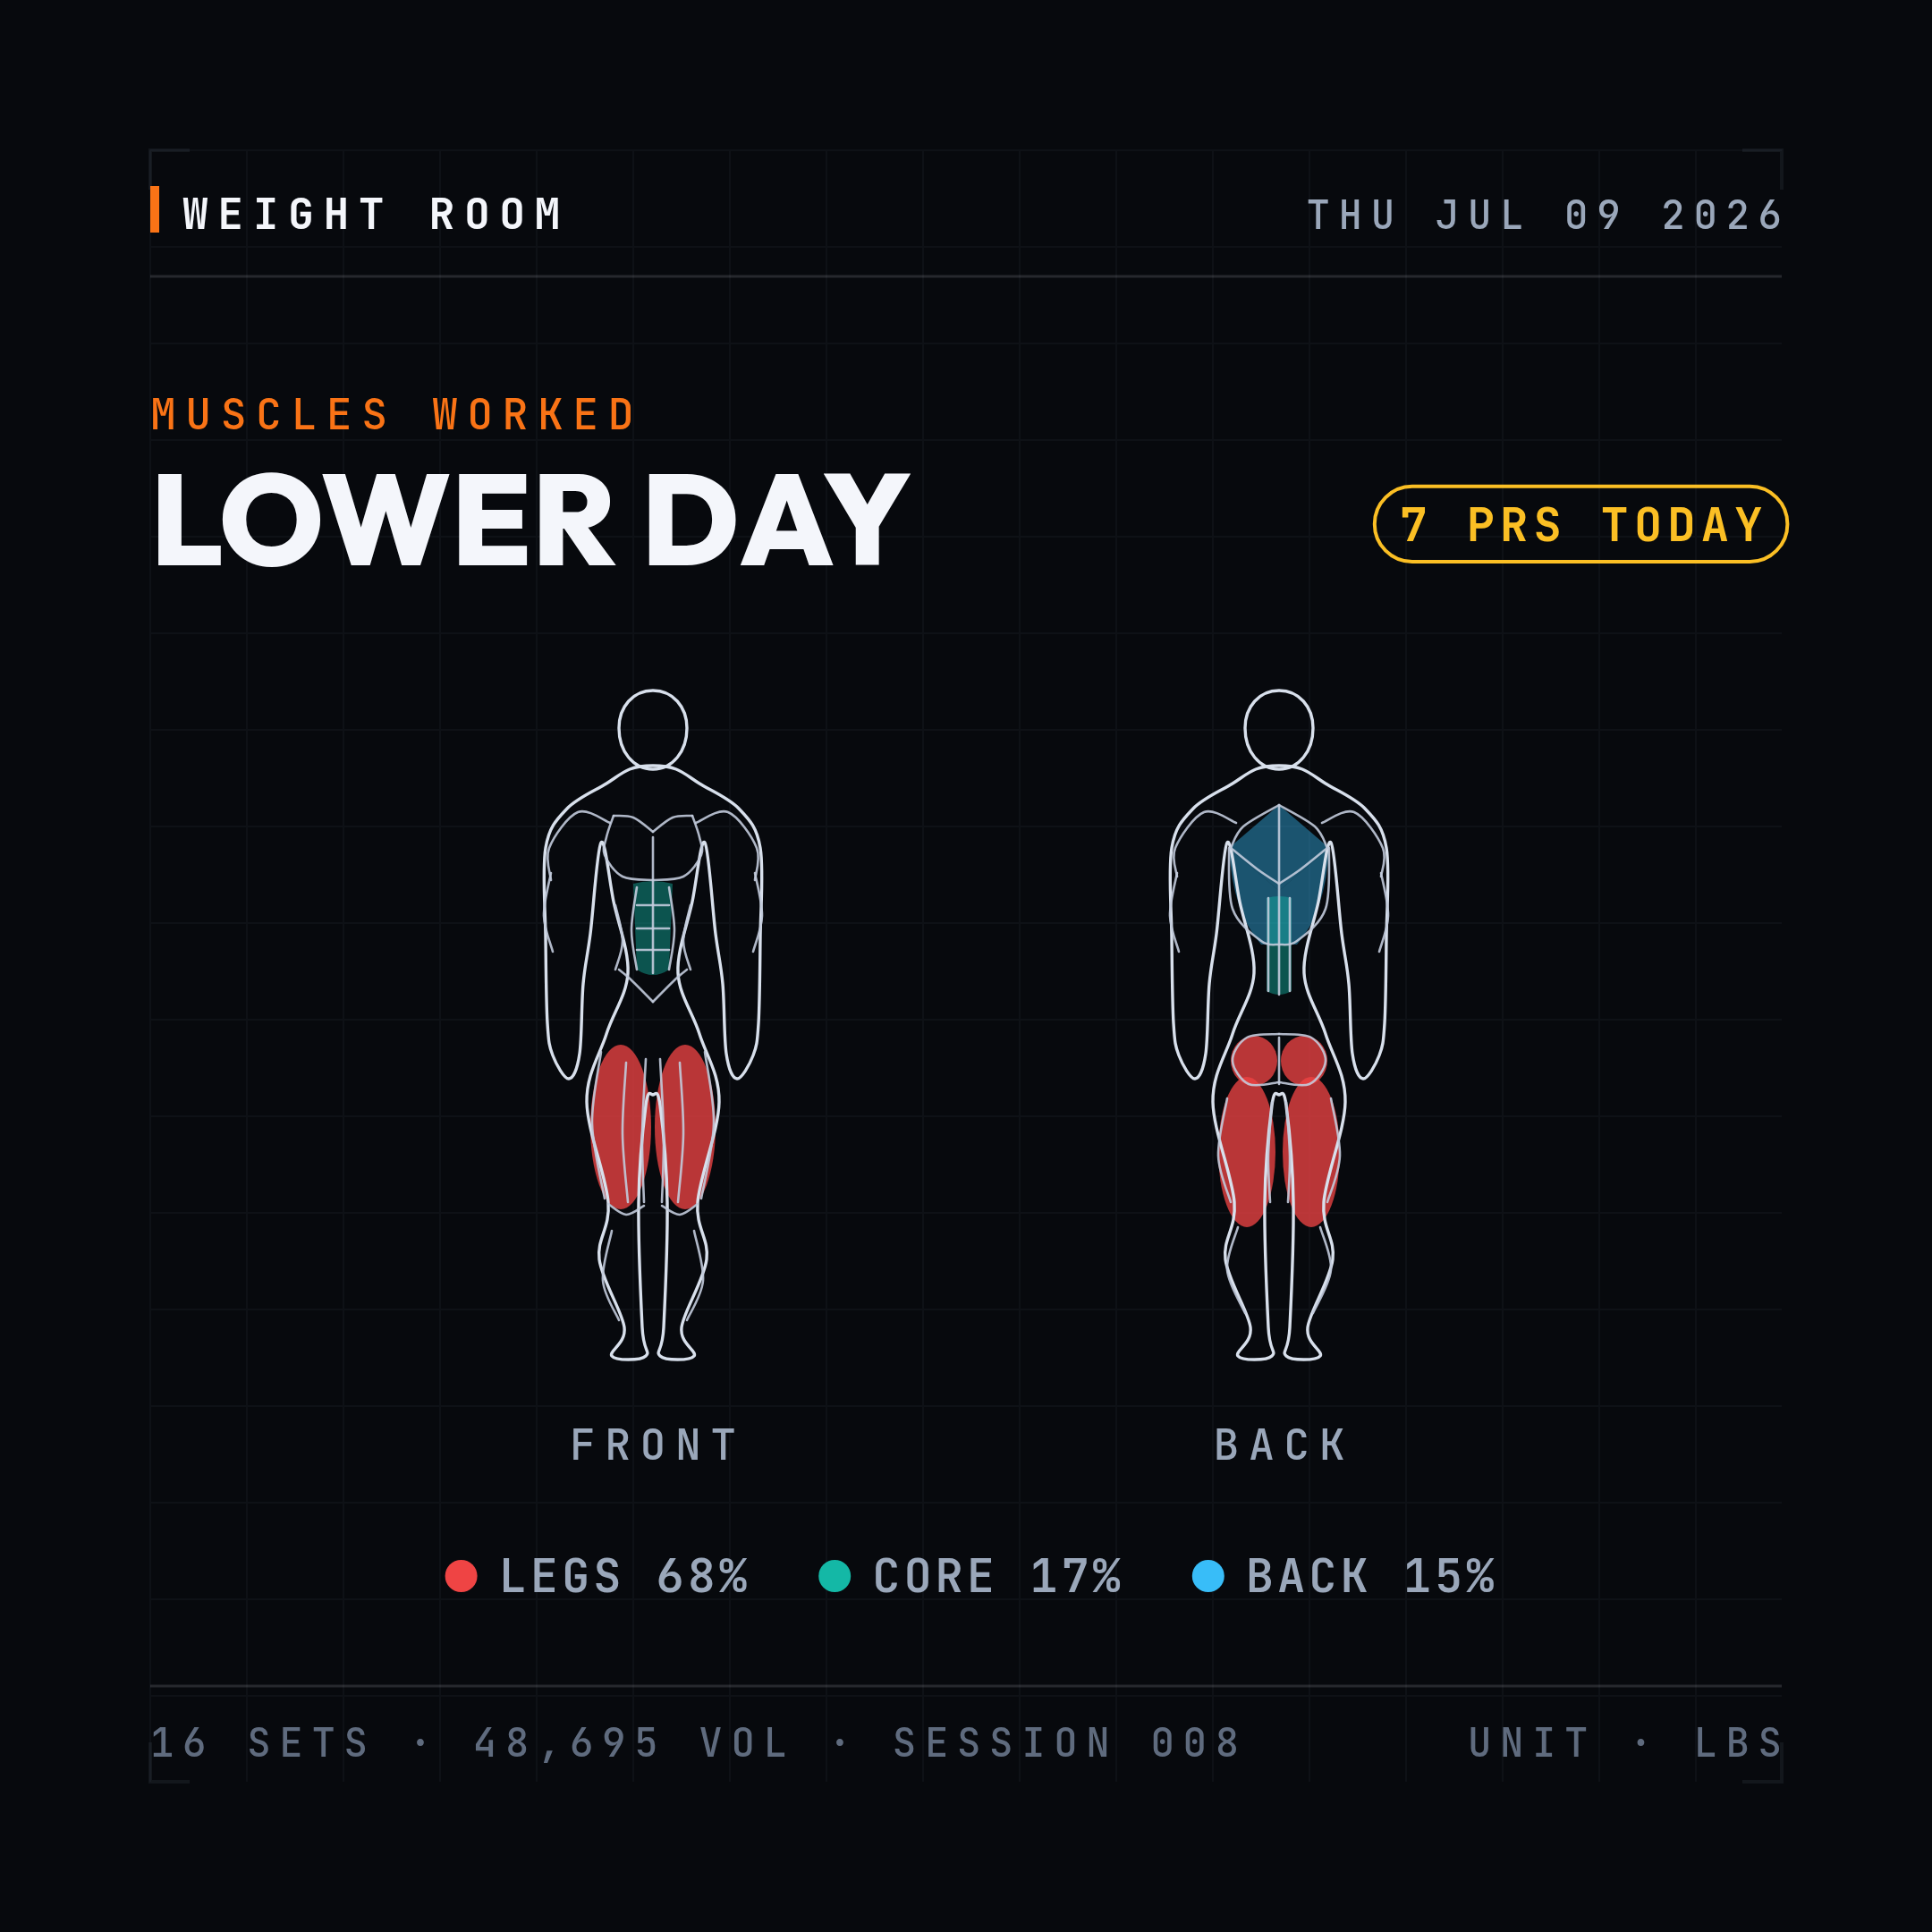
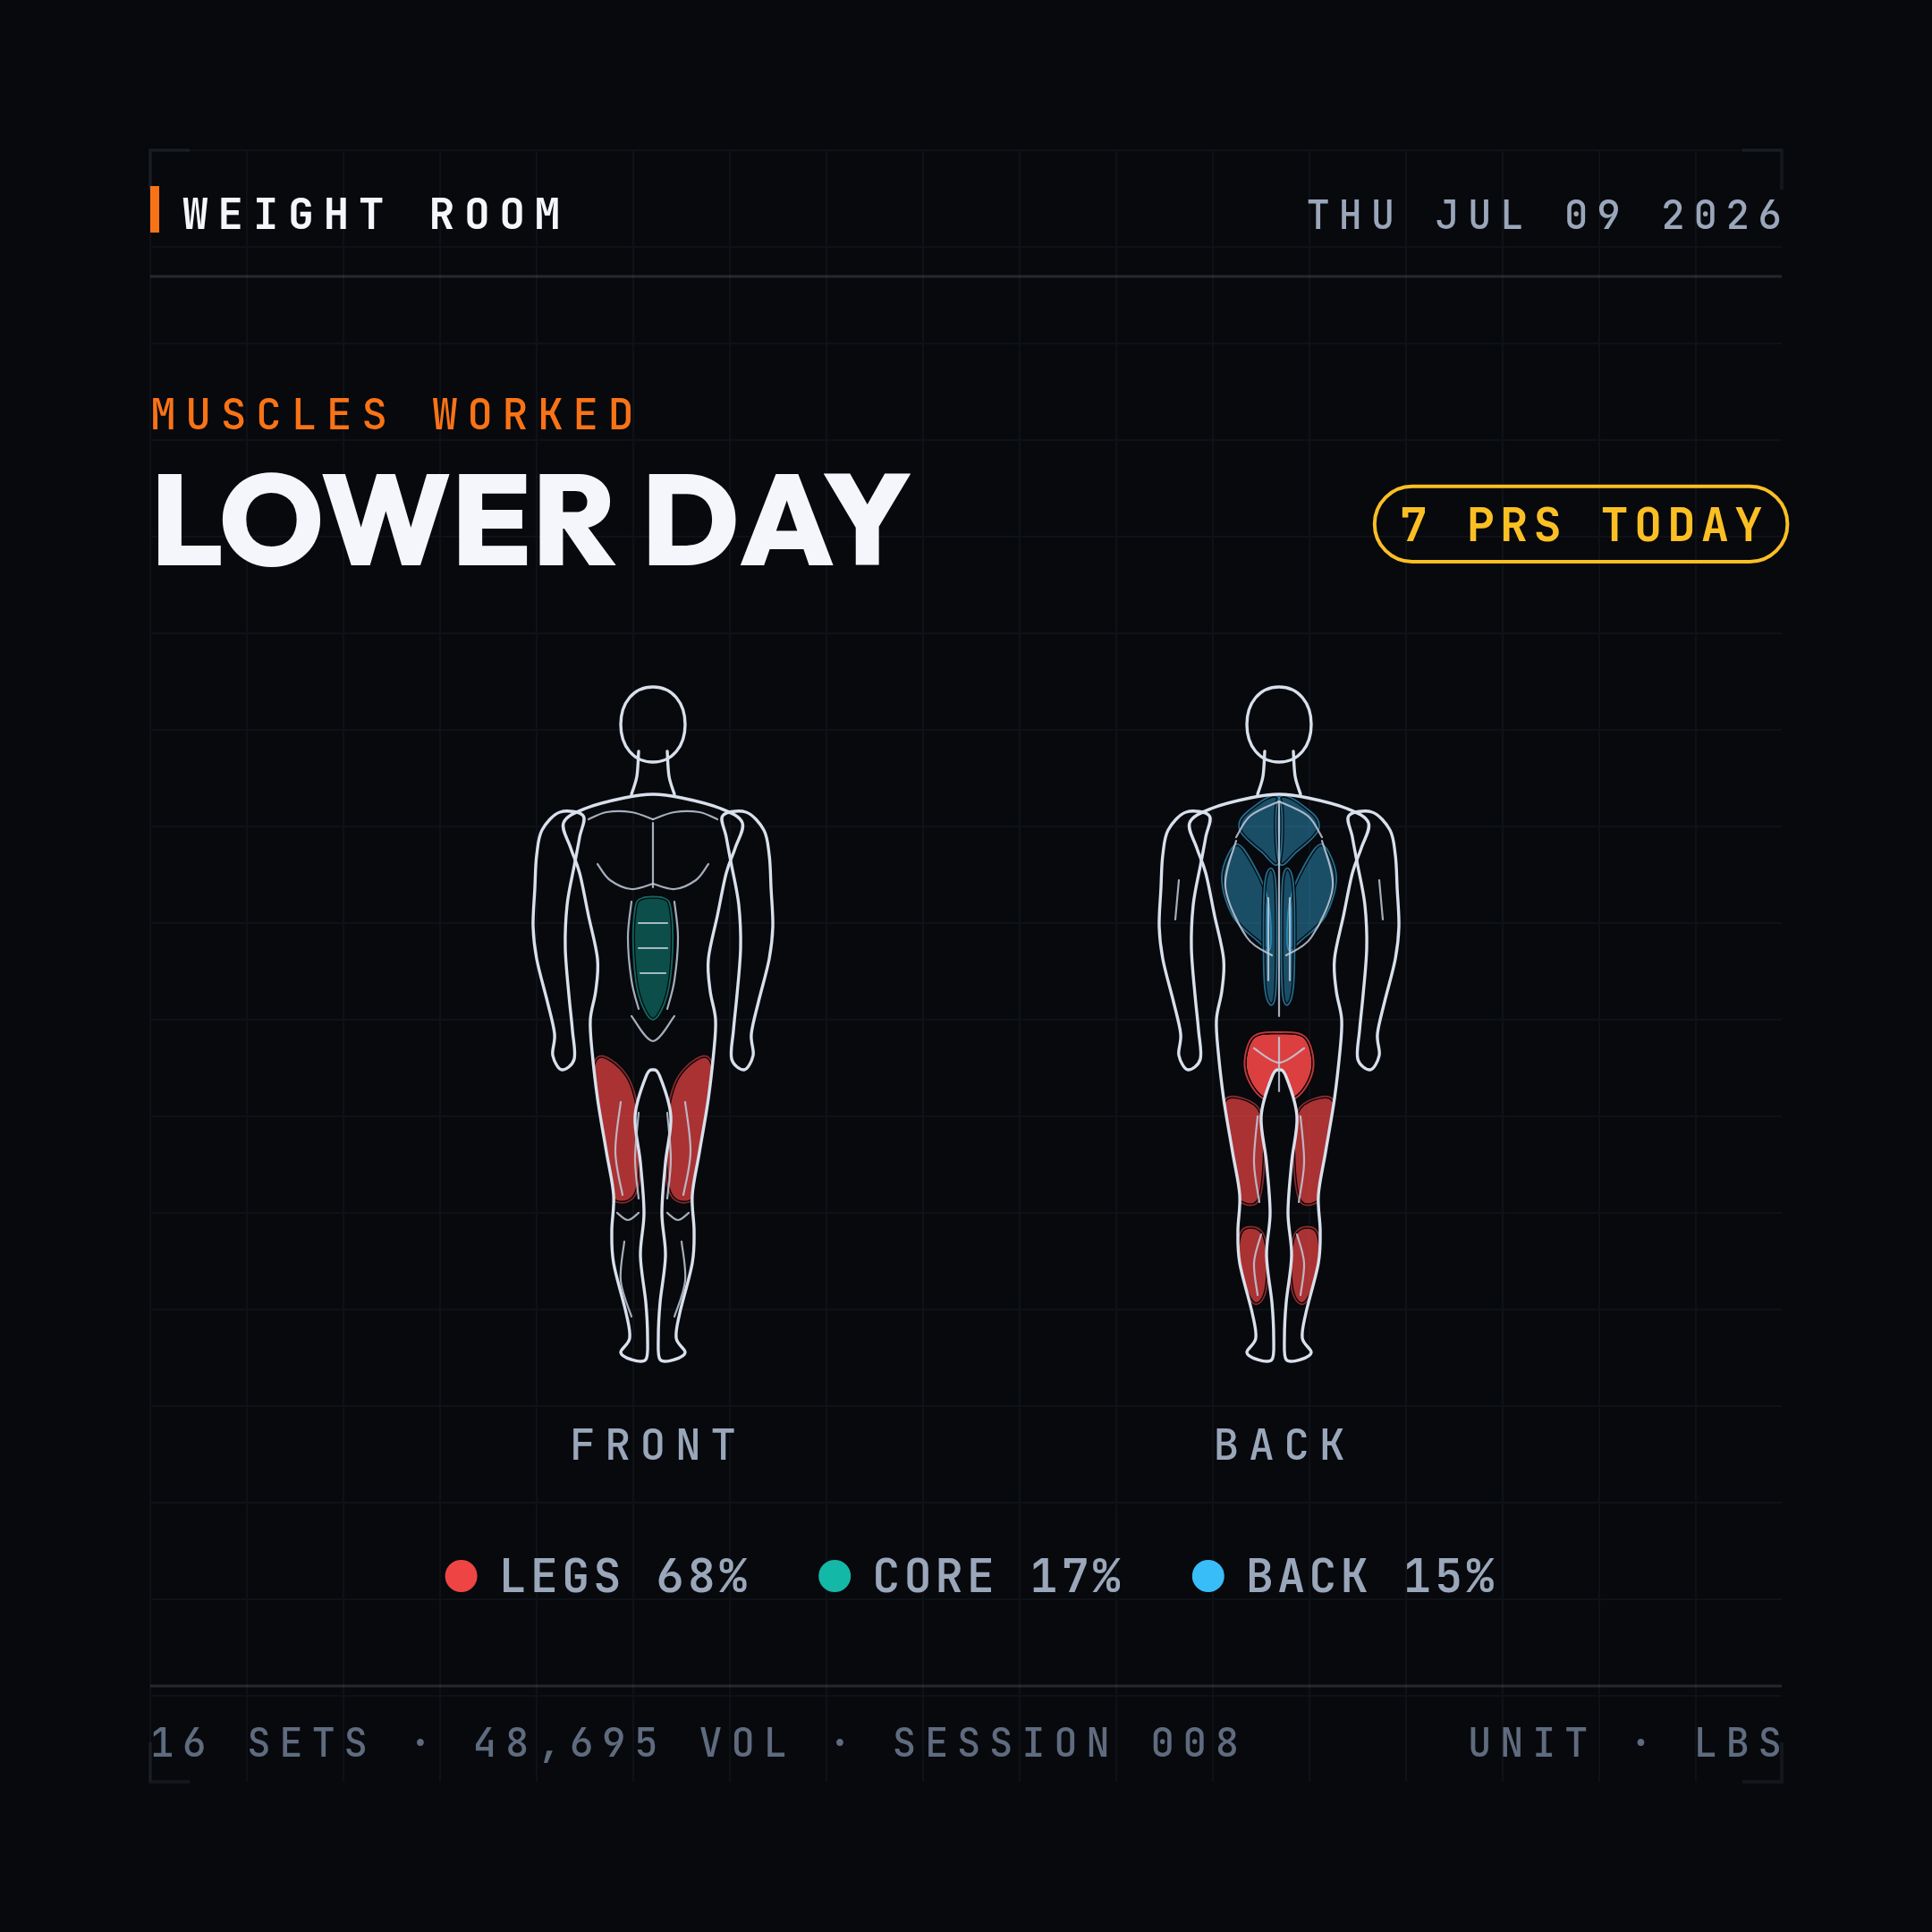
Redesign the anatomy figure from scratch
The restored body map used the original hand-drawn geometry — lumpy
silhouette, floating ellipse washes bleeding past the outline. New
figure authored fresh (iterated visually in a dev harness): proper
proportions, part-based composition (head, open-sided neck, torso+legs,
naturally hanging arms) so silhouettes stay clean; muscle washes are
closed regions clipped to the body with background-color knockout
strokes between them, so adjacent same-color muscles (trap/lat/erector)
read as distinct shapes; refined interior contour lines. drawFigure
renders the part model via Path2D with mirrored right-side regions.

Claude-Session: https://claude.ai/code/session_017FFDWztrMnJ799jVbag4ee

Changed region(s): [[0.5894, 0.3412, 0.7444, 0.7134], [0.2792, 0.3722, 0.4032, 0.7134]]

diff --git a/src/lib/share/bodyMap.js b/src/lib/share/bodyMap.js
@@ -1,20 +1,21 @@
-// Thin line-art front/back anatomy for the muscle-map share card.
+// Refined line-art front/back anatomy for the muscle-map share card.
 //
-// The body is drawn as light contour lines (outline + muscle delineations)
-// with no solid fill; muscle groups trained that day get a translucent color
-// wash painted behind the line art. Geometry is point data + a Catmull-Rom
-// smoother producing SVG path strings, rendered onto the card canvas via
-// Path2D (Safari-safe). Coordinates use a 200x400 viewBox, centered x=100.
+// Authored as mirrored point data smoothed with Catmull-Rom → SVG path
+// strings, rendered via Path2D (Safari-safe). The body is composed of parts
+// (head, open-sided neck, torso+legs, hanging arms) so silhouettes stay
+// clean; muscle-group washes are separate closed regions CLIPPED to the body
+// with knockout strokes between them, so adjacent same-color muscles (trap /
+// lat / erector) read as distinct shapes. Coordinates use a 200×400 viewBox,
+// centered x=100; right-side regions are mirrored at draw time.
 
 import { MUSCLE_COLORS } from '../../data/seed.js'
 
 export const VIEW_W = 200
 export const VIEW_H = 400
-export const VIEWBOX = `0 0 ${VIEW_W} ${VIEW_H}`
 
 export const LINE_STROKE = '#c2cbdb'
 export const OUTLINE_STROKE = '#d8e0ec'
-export const LINE_WIDTH = 1.3
+export const LINE_WIDTH = 1.1
 export const OUTLINE_WIDTH = 1.7
 
 // ---- smoothing + mirroring ----
@@ -40,116 +41,109 @@ function bez(pts, closed) {
   return d + (closed ? 'Z' : '')
 }
 const mir = ([x, y]) => [200 - x, y]
+const mirPts = (pts) => pts.map(mir)
 
-// ---- body outline + head ----
-const OUTLINE_PTS = [
-  [100, 56], [113, 58], [126, 66], [148, 80], [160, 102], [160, 152], [159, 200],
-  [156, 218], [147, 231], [141, 217], [139, 178], [135, 150], [129, 99], [122, 132],
-  [114, 172], [126, 206], [137, 244], [125, 300], [130, 332], [116, 370], [123, 386],
-  [104, 386], [106, 370], [108, 300], [104, 246], [100, 240],
+// ---- body parts ----
+export const HEAD =
+  'M100 12 C111 12 118 21 118 33 C118 45 111 54 100 54 C89 54 82 45 82 33 C82 21 89 12 100 12 Z'
+// Open-sided neck: two strokes, no seam across chin or chest.
+export const NECK_L = bez([[92, 48], [91, 62], [88, 72]], false)
+export const NECK_R = bez([[108, 48], [109, 62], [112, 72]], false)
+
+const TORSO_R = [
+  [100, 72], [116, 74], [138, 80], [150, 88], [146, 102], [141, 116],
+  [136, 140], [131, 164], [132, 182], [135, 198], [134, 216], [131, 242],
+  [126, 272], [122, 296], [123, 316], [122, 334], [115, 362], [113, 376],
+  [118, 384], [112, 388], [104, 388], [103, 376], [104, 356], [107, 330],
+  [105, 306], [107, 278], [110, 252], [104, 230], [100, 226],
 ]
-export const BODY_OUTLINE = bez([...OUTLINE_PTS, ...OUTLINE_PTS.slice(1, -1).reverse().map(mir)], true)
-export const HEAD_PATH =
-  'M100 14 C111 14 119 23 119 35 C119 48 111 58 100 58 C89 58 81 48 81 35 C81 23 89 14 100 14 Z'
+export const TORSO = bez([...TORSO_R, ...mirPts(TORSO_R.slice(1, -1)).reverse()], true)
 
-// ---- muscle contour lines (center drawn as-is; side mirrored to both sides) ----
-const FRONT_LINES = {
-  center: [[[100, 96], [100, 122], [100, 172]]],
-  side: [
-    [[100, 93], [111, 85], [122, 84]], // clavicle
-    [[122, 84], [126, 96], [127, 106], [117, 118], [100, 120]], // pectoral
-    [[124, 88], [142, 82], [158, 102], [157, 120]], // deltoid cap
-    [[157, 116], [161, 140], [156, 160]], // biceps
-    [[109, 124], [112, 148], [109, 170]], // rectus border
-    [[100, 134], [109, 134]],
-    [[100, 147], [109, 147]],
-    [[100, 159], [109, 159]], // ab rows
-    [[100, 188], [113, 175], [119, 170]], // lower-ab V
-    [[121, 134], [117, 154], [121, 170]], // oblique
-    [[129, 216], [134, 256], [127, 298]], // quad outer
-    [[115, 222], [117, 262], [114, 300]], // quad center
-    [[104, 220], [106, 262], [105, 300]], // quad inner
-    [[105, 302], [115, 307], [125, 301]], // knee
-    [[123, 316], [128, 344], [119, 366]], // shin
-  ],
-}
-const BACK_LINES = {
-  center: [
-    [[100, 78], [100, 132], [100, 184]], // spine
-    [[100, 208], [100, 234]], // glute cleft
-  ],
-  side: [
-    [[100, 78], [120, 90], [127, 102]], // trap upper
-    [[127, 102], [112, 114], [100, 122]], // trap lower
-    [[128, 102], [126, 136], [110, 154], [100, 156]], // lat
-    [[124, 88], [142, 82], [158, 102], [157, 118]], // rear delt
-    [[157, 116], [161, 140], [156, 160]], // triceps
-    [[106, 130], [106, 182]], // erector
-    [[100, 206], [118, 208], [126, 221], [117, 234], [100, 233]], // glute
-    [[129, 242], [134, 274], [127, 300]], // hamstring outer
-    [[104, 244], [106, 274], [105, 300]], // hamstring inner
-    [[123, 314], [129, 338], [119, 362]], // calf
-  ],
-}
-function linePaths(set) {
-  return [...set.center, ...set.side, ...set.side.map((a) => a.map(mir))].map((pts) =>
-    bez(pts, false),
-  )
-}
-export const FRONT_LINE_PATHS = linePaths(FRONT_LINES)
-export const BACK_LINE_PATHS = linePaths(BACK_LINES)
-
-// ---- muscle highlight zones (filled behind the lines, only when trained) ----
-const delts = [
-  { t: 'ellipse', cx: 146, cy: 100, rx: 14, ry: 14 },
-  { t: 'ellipse', cx: 54, cy: 100, rx: 14, ry: 14 },
+const ARM_R_PTS = [
+  [139, 84], [152, 82], [162, 92], [165, 106], [166, 124], [167, 146],
+  [165, 164], [159, 188], [155, 206], [156, 218], [151, 226], [144, 220],
+  [145, 204], [147, 184], [149, 158], [148, 134], [144, 112], [141, 96],
 ]
-const arms = [
-  { t: 'ellipse', cx: 158, cy: 136, rx: 9, ry: 24, rot: -4 },
-  { t: 'ellipse', cx: 42, cy: 136, rx: 9, ry: 24, rot: 4 },
+export const ARM_R = bez(ARM_R_PTS, true)
+export const ARM_L = bez(mirPts(ARM_R_PTS), true)
+
+// ---- interior contour lines ----
+const mirLine = (pts) => bez(mirPts(pts), false)
+const clavicle = [[100, 86], [112, 82], [126, 82], [136, 86]]
+const pecUnder = [[100, 122], [112, 125], [124, 120], [131, 111]]
+const rectusBorder = [[112, 132], [114, 152], [112, 176], [108, 192]]
+const quadSeamOuter = [[118, 244], [121, 272], [117, 296]]
+const quadSeamInner = [[108, 250], [110, 276], [108, 298]]
+const knee = [[108, 306], [114, 310], [120, 306]]
+const shin = [[116, 322], [118, 344], [112, 364]]
+
+export const FRONT_LINES = [
+  bez(clavicle, false), mirLine(clavicle),
+  bez([[100, 88], [100, 124]], false),
+  bez(pecUnder, false), mirLine(pecUnder),
+  bez(rectusBorder, false), mirLine(rectusBorder),
+  bez([[92, 144], [108, 144]], false),
+  bez([[92, 158], [108, 158]], false),
+  bez([[93, 172], [107, 172]], false),
+  bez([[88, 196], [100, 210], [112, 196]], false),
+  bez(quadSeamOuter, false), mirLine(quadSeamOuter),
+  bez(quadSeamInner, false), mirLine(quadSeamInner),
+  bez(knee, false), mirLine(knee),
+  bez(shin, false), mirLine(shin),
 ]
 
+const trapLine = [[100, 76], [116, 84], [124, 96]]
+const latLine = [[124, 98], [130, 124], [118, 152], [104, 162]]
+const erectorSeam = [[106, 130], [106, 176]]
+const hamSeam = [[112, 252], [114, 278], [111, 300]]
+const calfHead = [[110, 318], [114, 334], [112, 352]]
+const triSeam = [[156, 120], [158, 142]]
+
+export const BACK_LINES = [
+  bez(trapLine, false), mirLine(trapLine),
+  bez([[100, 76], [100, 196]], false),
+  bez(latLine, false), mirLine(latLine),
+  bez(erectorSeam, false), mirLine(erectorSeam),
+  bez([[100, 208], [100, 238]], false),
+  bez([[86, 214], [100, 222], [114, 214]], false),
+  bez(hamSeam, false), mirLine(hamSeam),
+  bez(calfHead, false), mirLine(calfHead),
+  bez(triSeam, false), mirLine(triSeam),
+]
+
+// ---- muscle-group wash regions (right side; mirrored at draw time) ----
+const REGION_PATHS = {
+  deltF: bez([[139, 84], [152, 82], [162, 92], [165, 104], [158, 112], [146, 108], [140, 96]], true),
+  pec: bez([[102, 92], [124, 90], [135, 99], [132, 112], [120, 120], [104, 118]], true),
+  biceps: bez([[147, 112], [158, 114], [164, 128], [161, 146], [151, 148], [146, 130]], true),
+  abs: bez([[94, 130], [106, 130], [110, 136], [111, 158], [108, 184], [100, 198], [92, 184], [89, 158], [90, 136]], true),
+  quad: bez([[133, 222], [136, 252], [130, 288], [120, 300], [109, 294], [107, 262], [112, 234], [124, 220]], true),
+  trap: bez([[100, 74], [118, 82], [122, 92], [110, 104], [100, 110]], true),
+  lat: bez([[124, 100], [132, 118], [126, 140], [112, 154], [105, 158], [106, 132], [114, 112]], true),
+  tri: bez([[148, 110], [160, 112], [165, 128], [162, 146], [152, 148], [146, 128]], true),
+  erector: bez([[102, 120], [108, 122], [108, 180], [102, 184]], true),
+  glute: bez([[85, 208], [100, 205], [115, 208], [119, 226], [109, 242], [91, 242], [81, 226]], true),
+  ham: bez([[131, 244], [133, 270], [126, 296], [112, 300], [108, 274], [110, 250], [120, 242]], true),
+  calfB: bez([[121, 316], [123, 336], [115, 356], [108, 352], [106, 332], [110, 316]], true),
+}
+
+// Entries: { group, d, noMirror? } — noMirror for center-line regions.
 export const FRONT_REGIONS = [
-  { group: 'Shoulders', shapes: delts },
-  {
-    group: 'Chest',
-    shapes: [
-      { t: 'ellipse', cx: 114, cy: 108, rx: 16, ry: 13, rot: -8 },
-      { t: 'ellipse', cx: 86, cy: 108, rx: 16, ry: 13, rot: 8 },
-    ],
-  },
-  { group: 'Core', shapes: [{ t: 'path', d: 'M89 122 Q100 119 111 122 L109 170 Q100 176 91 170 Z' }] },
-  { group: 'Biceps', shapes: arms },
-  {
-    group: 'Legs',
-    shapes: [
-      { t: 'ellipse', cx: 118, cy: 258, rx: 17, ry: 46 },
-      { t: 'ellipse', cx: 82, cy: 258, rx: 17, ry: 46 },
-    ],
-  },
+  { group: 'Shoulders', d: REGION_PATHS.deltF },
+  { group: 'Chest', d: REGION_PATHS.pec },
+  { group: 'Biceps', d: REGION_PATHS.biceps },
+  { group: 'Core', d: REGION_PATHS.abs, noMirror: true },
+  { group: 'Legs', d: REGION_PATHS.quad },
 ]
-
 export const BACK_REGIONS = [
-  { group: 'Shoulders', shapes: delts },
-  {
-    group: 'Back',
-    shapes: [
-      { t: 'path', d: 'M100 78 L128 102 L100 126 L72 102 Z' },
-      { t: 'path', d: 'M128 102 Q126 138 110 156 L100 156 L100 126 Z' },
-      { t: 'path', d: 'M72 102 Q74 138 90 156 L100 156 L100 126 Z' },
-    ],
-  },
-  { group: 'Triceps', shapes: arms },
-  { group: 'Core', shapes: [{ t: 'path', d: 'M93 130 Q100 128 107 130 L107 182 Q100 186 93 182 Z' }] },
-  {
-    group: 'Legs',
-    shapes: [
-      { t: 'ellipse', cx: 114, cy: 221, rx: 13, ry: 14 },
-      { t: 'ellipse', cx: 86, cy: 221, rx: 13, ry: 14 },
-      { t: 'ellipse', cx: 118, cy: 272, rx: 16, ry: 42 },
-      { t: 'ellipse', cx: 82, cy: 272, rx: 16, ry: 42 },
-    ],
-  },
+  { group: 'Shoulders', d: REGION_PATHS.deltF },
+  { group: 'Back', d: REGION_PATHS.trap },
+  { group: 'Back', d: REGION_PATHS.lat },
+  { group: 'Back', d: REGION_PATHS.erector },
+  { group: 'Triceps', d: REGION_PATHS.tri },
+  { group: 'Legs', d: REGION_PATHS.glute },
+  { group: 'Legs', d: REGION_PATHS.ham },
+  { group: 'Legs', d: REGION_PATHS.calfB },
 ]
 
 /**
@@ -171,5 +165,5 @@ export function regionStyle(group, intensities) {
   const ratio = intensities[group]
   if (ratio == null) return null
   const color = MUSCLE_COLORS[group] || MUSCLE_COLORS.Other
-  return { fill: color, opacity: 0.32 + 0.45 * ratio }
+  return { fill: color, opacity: 0.3 + 0.4 * ratio }
 }

diff --git a/src/lib/share/draw.js b/src/lib/share/draw.js
@@ -8,10 +8,14 @@ import { INK, ACCENT, GRID_PITCH, MARGIN, mono } from './theme.js'
 import {
   VIEW_W,
   VIEW_H,
-  BODY_OUTLINE,
-  HEAD_PATH,
-  FRONT_LINE_PATHS,
-  BACK_LINE_PATHS,
+  HEAD,
+  NECK_L,
+  NECK_R,
+  TORSO,
+  ARM_R,
+  ARM_L,
+  FRONT_LINES,
+  BACK_LINES,
   FRONT_REGIONS,
   BACK_REGIONS,
   LINE_STROKE,
@@ -24,7 +28,9 @@ import {
 /**
  * Draw the front/back anatomy figure with muscle washes onto the canvas via
  * Path2D (no SVG rasterization step — Safari-safe and always crisp). The
- * figure scales to fit box.h, horizontally centered in box.w.
+ * figure scales to fit box.h, horizontally centered in box.w. Washes are
+ * clipped to the body silhouette and separated with background-color knockout
+ * strokes so adjacent same-color regions stay distinct.
  */
 export function drawFigure(ctx, view, intensities, box) {
   const s = box.h / VIEW_H
@@ -33,44 +39,65 @@ export function drawFigure(ctx, view, intensities, box) {
   ctx.translate(x0, box.y)
   ctx.scale(s, s)
 
-  // Color washes behind the line art, only for trained groups.
+  const torso = new Path2D(TORSO)
+  const armR = new Path2D(ARM_R)
+  const armL = new Path2D(ARM_L)
+  const bodyClip = new Path2D()
+  bodyClip.addPath(torso)
+  bodyClip.addPath(armR)
+  bodyClip.addPath(armL)
+
+  // Mirrored draw helper: right-side regions repeat flipped across x=100.
+  const mirrored = (fn) => {
+    ctx.save()
+    ctx.translate(VIEW_W, 0)
+    ctx.scale(-1, 1)
+    fn()
+    ctx.restore()
+  }
+
+  // Color washes, clipped to the body, only for trained groups.
+  ctx.save()
+  ctx.clip(bodyClip)
   const regions = view === 'back' ? BACK_REGIONS : FRONT_REGIONS
   for (const r of regions) {
     const style = regionStyle(r.group, intensities)
     if (!style) continue
+    const path = new Path2D(r.d)
     ctx.fillStyle = style.fill
     ctx.globalAlpha = style.opacity
-    for (const shape of r.shapes) {
-      if (shape.t === 'path') {
-        ctx.fill(new Path2D(shape.d))
-      } else {
-        ctx.beginPath()
-        ctx.ellipse(
-          shape.cx,
-          shape.cy,
-          shape.rx,
-          shape.ry,
-          ((shape.rot || 0) * Math.PI) / 180,
-          0,
-          Math.PI * 2,
-        )
-        ctx.fill()
-      }
-    }
+    ctx.fill(path)
+    if (!r.noMirror) mirrored(() => ctx.fill(path))
+    // Knockout gap + crisp colored edge.
+    ctx.globalAlpha = 1
+    ctx.lineWidth = 2.2
+    ctx.strokeStyle = INK.bg
+    ctx.stroke(path)
+    if (!r.noMirror) mirrored(() => ctx.stroke(path))
+    ctx.globalAlpha = 0.55
+    ctx.lineWidth = 0.9
+    ctx.strokeStyle = style.fill
+    ctx.stroke(path)
+    if (!r.noMirror) mirrored(() => ctx.stroke(path))
+    ctx.globalAlpha = 1
   }
-  ctx.globalAlpha = 1
+  ctx.restore()
 
-  // Outline + head, then the muscle contour lines on top.
+  // Silhouette parts + head/neck, then the contour lines on top.
   ctx.lineCap = 'round'
   ctx.lineJoin = 'round'
   ctx.strokeStyle = OUTLINE_STROKE
   ctx.lineWidth = OUTLINE_WIDTH
-  ctx.stroke(new Path2D(BODY_OUTLINE))
-  ctx.stroke(new Path2D(HEAD_PATH))
+  ctx.stroke(torso)
+  ctx.stroke(armR)
+  ctx.stroke(armL)
+  ctx.stroke(new Path2D(HEAD))
+  ctx.stroke(new Path2D(NECK_L))
+  ctx.stroke(new Path2D(NECK_R))
   ctx.strokeStyle = LINE_STROKE
   ctx.lineWidth = LINE_WIDTH
-  ctx.globalAlpha = 0.9
-  for (const d of view === 'back' ? BACK_LINE_PATHS : FRONT_LINE_PATHS) {
+  ctx.globalAlpha = 0.85
+  for (const d of view === 'back' ? BACK_LINES : FRONT_LINES) {
     ctx.stroke(new Path2D(d))
   }
   ctx.globalAlpha = 1